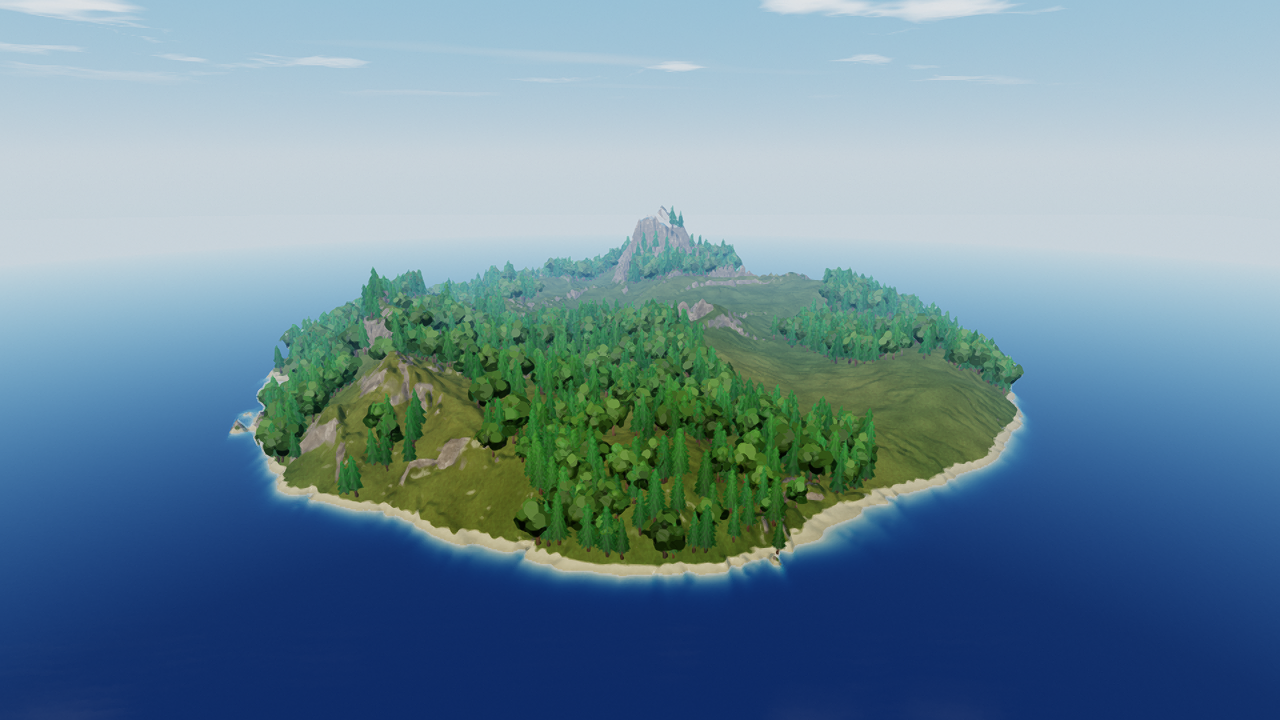
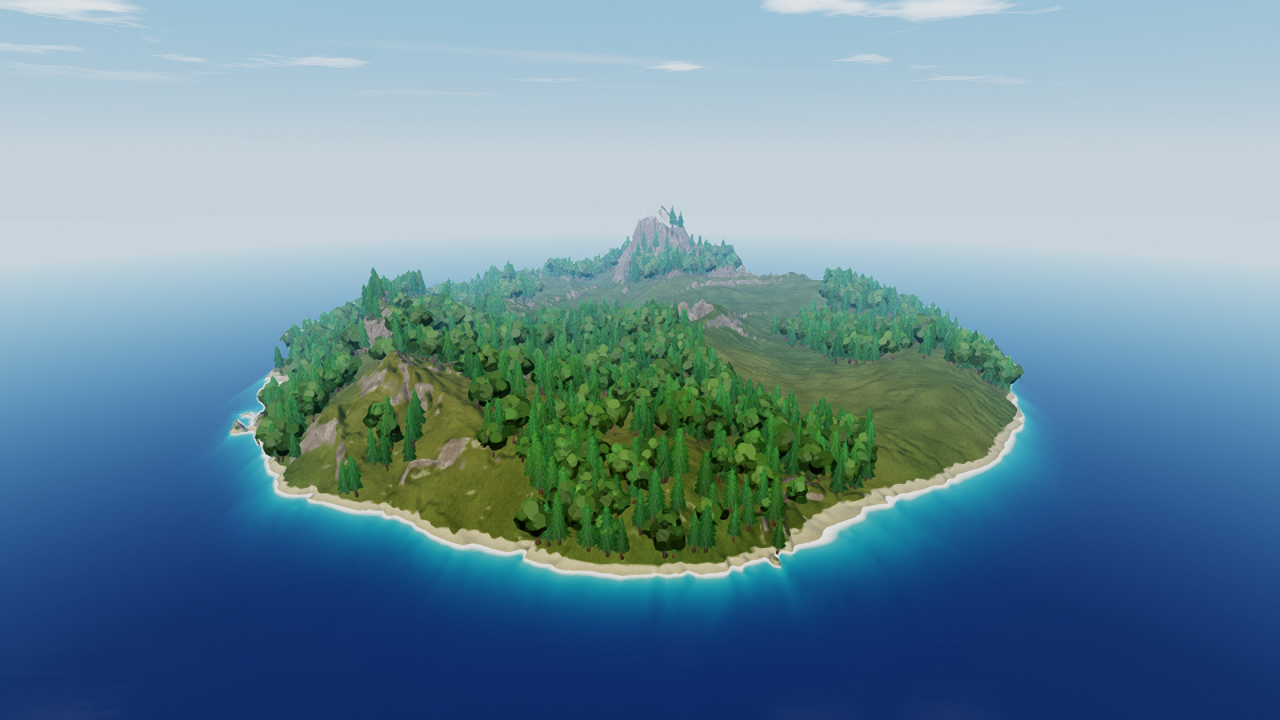
Shore foam, turquoise shallows, visible underwater, and dirt paths.
Water:
- A broken white foam line along the coast, with waves rolling in behind it up
  close. Depth is now measured straight down: along the view ray, a low camera saw
  the line vanish. Modern look only, and low tier has none, since it needs the
  refraction depth
- Underwater was black. The default fog color now follows the shallows, or else the
  water color, and is much thinner (density 0.022). SetUnderwaterFog still overrides
- The island's shallows are wider and brighter

Terrain:
- PaintTerrainPath(t, x0, z0, x1, z1, width [, layer]) paints a track, dirt by default
- PaintTerrain has a dirt layer, 4. It is stored as sand and rock equally, since the
  blend map's channels and the terrain's texture units are full
- Grass and trees stay off painted dirt, sand, and rock, for anything planted after
  the paint

Fixes:
- Paint strokes wrote into the bake map when a terrain had both, leaving dark squares
  far from the brush: the upload ran after the bake was bound
- Any paint made the whole terrain read every material, about 1.6 ms for one short
  path. It now does that only where paint is

The sun disc was checked and is there, as a soft glow. Island frame time is unchanged
at about 9.3 / 7 / 4.4 ms on high / medium / low, on one GPU only.

Only the island reference changed. Tests pass, references are stable over repeat
runs, and all 118 examples run with no crash or GL error. No example uses
PaintTerrainPath yet.

Changed region(s): [[0.1562, 0.5194, 0.8125, 0.8861]]

diff --git a/internal/runtime/terrain_sculpt.go b/internal/runtime/terrain_sculpt.go
@@ -793,16 +793,54 @@ func (w *World) seedPaint(p *terrainPaint, texID int) {
 	}
 }
 
+// paintDirt is the dirt layer. The blend map has four channels and four materials
+// already, and the terrain's texture units are full, so dirt is stored as sand and
+// rock equally: the shader takes what they share as dirt.
+const paintDirt = 4
+
 // paintChannel maps PaintTerrain layers (SetTerrainSplat order) to blend map
-// channels: 0 sand R, 1 grass G, 2 rock B, 3 snow A. -1 erases.
+// channels: 0 sand R, 1 grass G, 2 rock B, 3 snow A. -1 erases, 4 is dirt.
 func paintChannel(layer int) int {
 	if layer < 0 {
 		return -1
 	}
-	if layer > 3 {
-		return 3
+	if layer >= paintDirt {
+		return -1 // written as sand and rock, below
 	}
 	return layer
+}
+
+// paintPath dabs along a line, closely enough that it reads as one stroke.
+func paintPath(p *terrainPaint, x0, z0, x1, z1, width float32, layer int) {
+	b := p.img.Bounds()
+	sx := float32(b.Dx()) / max32(p.w, 0.001)
+	sz := float32(b.Dy()) / max32(p.d, 0.001)
+	r := width * 0.5 * (sx + sz) * 0.5
+	dx, dz := (x1-x0)*sx, (z1-z0)*sz
+	n := int(math.Sqrt(float64(dx*dx+dz*dz))/float64(max32(r*0.4, 0.5))) + 1
+	for i := 0; i <= n; i++ {
+		f := float32(i) / float32(n)
+		u := (x0 + (x1-x0)*f - p.x0) * sx
+		v := (z0 + (z1-z0)*f - p.z0) * sz
+		p.dirty = p.dirty.Union(paintImage(p.img, u, v, r, layer, 0.8, 0.5))
+	}
+}
+
+// paintBareAt says whether paint has cleared this spot of plants: dirt, sand, or rock
+// where nothing was asked to grow.
+func (t *terrain) paintBareAt(x, z float32) bool {
+	p := t.sculpt.paint
+	if p == nil || t.blendTex != p.tex {
+		return false
+	}
+	b := p.img.Bounds()
+	u := int((x - p.x0) / max32(p.w, 0.001) * float32(b.Dx()))
+	v := int((z - p.z0) / max32(p.d, 0.001) * float32(b.Dy()))
+	if u < b.Min.X || v < b.Min.Y || u >= b.Max.X || v >= b.Max.Y {
+		return false
+	}
+	o := p.img.PixOffset(u, v)
+	return p.img.Pix[o] > 96 || p.img.Pix[o+2] > 96
 }
 
 // paintImage dabs one brush on img. (u, v) and r are in texels. The outer
@@ -843,7 +881,7 @@ func paintImage(img *image.RGBA, u, v, r float32, layer int, strength, falloff f
 			changed := false
 			for c := 0; c < 4; c++ {
 				target := float32(0)
-				if c == ch {
+				if c == ch || (layer == paintDirt && (c == 0 || c == 2)) {
 					target = 255
 				}
 				cur := float32(img.Pix[o+c])
@@ -1055,8 +1093,8 @@ func (w *World) terrainSculptCommands(n func(func([]value.Value) (value.Value, e
 				return value.Value{}, fmt.Errorf("PaintTerrain: radius must be > 0")
 			}
 			layer := argI(a, 4, 1)
-			if layer < -1 || layer > 3 {
-				return value.Value{}, fmt.Errorf("PaintTerrain: layer %d (0 sand, 1 grass, 2 rock, 3 snow, -1 erase)", layer)
+			if layer < -1 || layer > paintDirt {
+				return value.Value{}, fmt.Errorf("PaintTerrain: layer %d (0 sand, 1 grass, 2 rock, 3 snow, 4 dirt, -1 erase)", layer)
 			}
 			p := w.ensurePaint(t)
 			b := p.img.Bounds()
@@ -1067,6 +1105,26 @@ func (w *World) terrainSculptCommands(n func(func([]value.Value) (value.Value, e
 			touched := paintImage(p.img, u, v, r*(sx+sz)*0.5, layer, float32(argN(a, 5, 0.35)), float32(argN(a, 6, 0.5)))
 			p.dirty = p.dirty.Union(touched)
 			return value.Num(float64(touched.Dx() * touched.Dy())), nil
+		}),
+		// PaintTerrainPath(t, x0, z0, x1, z1, width [, layer]): paint a track between two
+		// points, dirt by default. Grass and trees stay off it, if they are planted after.
+		"paintterrainpath": n(func(a []value.Value) (value.Value, error) {
+			t, err := w.sculptTerrainArg("PaintTerrainPath", a, 6, "(terrain, x0, z0, x1, z1, width [, layer])")
+			if err != nil {
+				return value.Value{}, err
+			}
+			width := float32(argN(a, 5, 3))
+			if width <= 0 {
+				return value.Value{}, fmt.Errorf("PaintTerrainPath: width must be > 0")
+			}
+			layer := argI(a, 6, paintDirt)
+			if layer < -1 || layer > paintDirt {
+				return value.Value{}, fmt.Errorf("PaintTerrainPath: layer %d (0 sand, 1 grass, 2 rock, 3 snow, 4 dirt, -1 erase)", layer)
+			}
+			p := w.ensurePaint(t)
+			paintPath(p, float32(argN(a, 1, 0)), float32(argN(a, 2, 0)), float32(argN(a, 3, 0)), float32(argN(a, 4, 0)), width, layer)
+			w.resetGrass(t)
+			return z()
 		}),
 		"setterrainpaintarea": n(func(a []value.Value) (value.Value, error) {
 			t, err := w.sculptTerrainArg("SetTerrainPaintArea", a, 5, "(terrain, x0, z0, width, depth [, resolution])")

diff --git a/internal/runtime/terrain_shaders.go b/internal/runtime/terrain_shaders.go
@@ -230,6 +230,7 @@ float rockShown = 0.0;
 
 vec4 terrainSplat(inout vec3 n) {
     float h = WorldPos.y;
+    float paintedDirt = 0.0;
     vec3 tp = retroTexPos();
     // Rendering smaller picks blurrier mips, then FSR upscales the blur. Scaling the
     // gradients is the same as Godot's log2(scale) mip bias.
@@ -282,7 +283,14 @@ vec4 terrainSplat(inout vec3 n) {
     // Only what shows here is sampled: this was about 30 texture reads a pixel,
     // on the ground that covers most of the screen. A blend map can bring any
     // material back, so with one everything stays.
-    bool painted = TerrainHasBlend != 0;
+    // Paint can ask for any material, so where there is paint all of them are read.
+    // Only there: a short path should not cost the whole island three more textures.
+    vec4 bw = vec4(0.0);
+    if (TerrainHasBlend != 0) {
+        vec2 buv = vec2((WorldPos.x - TerrainOriginX) / max(TerrainWorldW, 1.0), (-WorldPos.z - TerrainOriginZ) / max(TerrainWorldD, 1.0));
+        bw = texture(TerrainBlendMap, clamp(buv, 0.0, 1.0));
+    }
+    bool painted = bw.r + bw.g + bw.b + bw.a > 0.004;
     bool wantRock = painted || (rockMask < 0.998 && sandMask < 0.998 && snowMask < 0.998);
     bool wantGrass = painted || (rockMask > 0.002 && sandMask < 0.998 && snowMask < 0.998);
     if (wantGrass) {
@@ -341,12 +349,11 @@ vec4 terrainSplat(inout vec3 n) {
         // Decoding deepens color, so this keeps the green a natural meadow.
         grass = mix(vec3(terrainLuma(grass)), grass, 0.7) * vec3(1.12, 1.0, 1.04);
     }
-    if (TerrainHasBlend != 0) {
-        float sx = WorldPos.x;
-        float sz = -WorldPos.z;
-        vec2 buv = vec2((sx - TerrainOriginX) / max(TerrainWorldW, 1.0), (sz - TerrainOriginZ) / max(TerrainWorldD, 1.0));
-        buv = clamp(buv, 0.0, 1.0);
-        vec4 bw = texture(TerrainBlendMap, buv);
+    if (painted) {
+        // Dirt is stored as sand and rock equally. What they share is dirt.
+        paintedDirt = min(bw.r, bw.b);
+        bw.r -= paintedDirt;
+        bw.b -= paintedDirt;
         float sum = bw.r + bw.g + bw.b + bw.a;
         if (sum > 0.04) {
             float k = clamp(sum, 0.0, 1.0);
@@ -364,6 +371,12 @@ vec4 terrainSplat(inout vec3 n) {
         dirtW,
         sandMask,
         snowMask);
+    if (paintedDirt > 0.002) {
+        // Worn earth with stones in it, and an edge that frays into what is around it.
+        vec3 earth = mix(vec3(0.66, 0.54, 0.4), vec3(0.5, 0.39, 0.28), terrainNoise(WorldPos.xz * 0.7));
+        earth = mix(earth, rock, smoothstep(0.62, 0.8, terrainNoise(WorldPos.xz * 2.3)) * 0.5);
+        albedo = mix(albedo, earth, smoothstep(0.3, 0.62, paintedDirt + (terrainNoise(WorldPos.xz * 0.9) - 0.5) * 0.35));
+    }
     float b0 = terrainNoise(WorldPos.xz * 1.6);
     float bx = terrainNoise((WorldPos.xz + vec2(0.15, 0.0)) * 1.6);
     float bz = terrainNoise((WorldPos.xz + vec2(0.0, 0.15)) * 1.6);

diff --git a/internal/runtime/terrain_sculpt_test.go b/internal/runtime/terrain_sculpt_test.go
@@ -3,6 +3,8 @@ package runtime
 import (
 	"image"
 	"math"
+	"os"
+	"strings"
 	"testing"
 
 	"github.com/g3n/engine/gls"
@@ -368,5 +370,68 @@ func TestSculptCompactHeightmap(t *testing.T) {
 	}
 	if y := w.terrainHeight(2, 2); !nearEps(y, before, 1e-4) {
 		t.Fatalf("reset %v want %v", y, before)
+	}
+}
+
+func TestPaintDirtIsSandAndRockTogether(t *testing.T) {
+	img := image.NewRGBA(image.Rect(0, 0, 16, 16))
+	paintImage(img, 8, 8, 3, paintDirt, 1, 0)
+	o := img.PixOffset(8, 8)
+	if img.Pix[o] != 255 || img.Pix[o+1] != 0 || img.Pix[o+2] != 255 || img.Pix[o+3] != 0 {
+		t.Fatalf("dirt wrote %v, want sand and rock full and nothing else", img.Pix[o:o+4])
+	}
+}
+
+func TestPaintPathKeepsPlantsOff(t *testing.T) {
+	img := image.NewRGBA(image.Rect(0, 0, 128, 128))
+	p := &terrainPaint{img: img, tex: 7, x0: -64, z0: -64, w: 128, d: 128}
+	paintPath(p, -40, 0, 40, 0, 6, paintDirt)
+	if p.dirty.Empty() {
+		t.Fatal("a path should mark texels for upload")
+	}
+	tr := &terrain{blendTex: 7}
+	tr.sculpt.paint = p
+	for _, x := range []float32{-40, -13, 0, 21, 40} {
+		if !tr.paintBareAt(x, 0) {
+			t.Fatalf("nothing should grow on the path at x=%v", x)
+		}
+	}
+	if tr.paintBareAt(0, 20) || tr.paintBareAt(500, 0) {
+		t.Fatal("off the path, and off the map, plants grow as usual")
+	}
+	tr.blendTex = 8 // another blend map bound: this canvas no longer counts
+	if tr.paintBareAt(0, 0) {
+		t.Fatal("a canvas that is not bound should not clear anything")
+	}
+}
+
+// uploadTerrainPaint writes to whatever texture is bound. With the bake bound after
+// the blend map, paint strokes came out as dark squares in the bake.
+func TestPaintUploadsWhileBlendMapIsBound(t *testing.T) {
+	src, err := os.ReadFile("terrain.go")
+	if err != nil {
+		t.Fatal(err)
+	}
+	s := string(src)
+	blend := strings.Index(s, `bind(t.blendTex, unitTerrainBlend`)
+	up := strings.Index(s, `m.w.uploadTerrainPaint(t)`)
+	bake := strings.Index(s, `bind(t.bakeTex, unitTerrainBake`)
+	if blend < 0 || up < blend || bake < up {
+		t.Fatalf("binds out of order: blend %d, upload %d, bake %d", blend, up, bake)
+	}
+}
+
+func TestUnderwaterIsNotBlack(t *testing.T) {
+	wb := &waterBody{color: math32.Color{R: 0.12, G: 0.21, B: 0.38}}
+	if c := wb.underwaterColor(); c.G < 0.2 || c.B < 0.3 {
+		t.Fatalf("default underwater color %v is too dark to see in", c)
+	}
+	wb.shallow, wb.shallowTo = math32.Color{R: 0.1, G: 0.7, B: 0.7}, 12
+	if c := wb.underwaterColor(); c.G <= c.R || c.B <= c.R {
+		t.Fatalf("underwater color %v should come from the shallows", c)
+	}
+	wb.underFog = math32.Color{R: 0.5}
+	if c := wb.underwaterColor(); c != wb.underFog {
+		t.Fatalf("a script's color should win, got %v", c)
 	}
 }

diff --git a/internal/runtime/water_shaders.go b/internal/runtime/water_shaders.go
@@ -456,8 +456,28 @@ void main() {
         surf = (1.0 - smoothstep(0.03, 0.9 + camDist * (LinearLight != 0 ? 0.001 : 0.004), meters)) * mix(0.3, 1.0, lap);
         surf *= smoothstep(0.2, 0.55, foamNoise + 0.2);
         surf *= exp(-camDist * (LinearLight != 0 ? 0.003 : 0.0012));
+        if (LinearLight != 0) {
+            // A white line along the shore, the thing that says "coast" from afar. Depth
+            // here is straight down: along the view ray, as meters is, a low camera
+            // sees depth grow so fast that the line vanishes. Two scales of noise drift
+            // through it, so it is broken and alive and not a painted stripe.
+            float down = meters * max(viewDir.y, 0.04);
+            float pulse = 0.5 + 0.5 * sin(WaveTime * 0.7 + foamNoise * 5.0 + tex.x * 3.0);
+            float reach = 0.45 + 0.3 * pulse + camDist * 0.0022;
+            float patchy = texture(WaterNormal, tex * 0.9 + vec2(WaterMove * 0.05, -WaterMove * 0.03)).r;
+            float line = 1.0 - smoothstep(0.01, reach, down);
+            surf = line * smoothstep(0.42, 0.6, foamNoise * 0.55 + patchy * 0.55 + line * 0.35);
+            // And a wave rolling in further out, up close, where it can be resolved.
+            float roll = sin(down * 9.0 - WaveTime * 0.9 + patchy * 7.0);
+            float rolling = smoothstep(0.8, 0.97, roll) * (1.0 - smoothstep(0.5, 1.5, fwidth(down) * 9.0));
+            rolling *= smoothstep(reach, reach * 1.4, down) * (1.0 - smoothstep(0.7, 1.3, down));
+            surf = max(surf, rolling * smoothstep(0.4, 0.62, patchy) * 0.75);
+        }
     }
     vec3 waterWithFoam = mix(base, foamColor, clamp(foamMask * foamNoise + surf * 0.7, 0.0, 0.7));
+    if (LinearLight != 0) {
+        waterWithFoam = mix(base, toLin(vec3(0.97, 0.98, 0.97)), clamp(foamMask * foamNoise + surf * 0.95, 0.0, 0.95));
+    }
 
     float sh = waterShadow(WorldPos, waveNormal, L);
     vec3 lit = waterWithFoam;

diff --git a/internal/runtime/water.go b/internal/runtime/water.go
@@ -762,17 +762,26 @@ func (w *World) tickUnderwater(wb *waterBody) {
 		if wb.underDen > 0 {
 			w.fogDensity = wb.underDen
 		} else {
-			w.fogDensity = 0.08
+			w.fogDensity = 0.022
 		}
-		if wb.underFog.R+wb.underFog.G+wb.underFog.B > 0 {
-			w.fogRGB = wb.underFog
-		} else {
-			w.fogRGB = math32.Color{wb.color.R * 0.25, wb.color.G * 0.45, wb.color.B * 0.55}
-		}
+		w.fogRGB = wb.underwaterColor()
 	} else if wb.savedFog {
 		w.fogMode, w.fogRGB, w.fogDensity = wb.fogMode, wb.fogRGB, wb.fogDen
 		wb.savedFog = false
 	}
+}
+
+// underwaterColor is what water looks like from inside it, unless a script chose.
+// It comes from the shallow color, which is the water's own: a quarter of the surface
+// color, as this was, turned the whole view black.
+func (wb *waterBody) underwaterColor() math32.Color {
+	if wb.underFog.R+wb.underFog.G+wb.underFog.B > 0 {
+		return wb.underFog
+	}
+	if wb.shallowTo > 0 {
+		return math32.Color{R: wb.shallow.R * 0.55, G: wb.shallow.G * 0.72, B: wb.shallow.B * 0.8}
+	}
+	return math32.Color{R: wb.color.R*0.7 + 0.02, G: wb.color.G*0.95 + 0.08, B: wb.color.B*1.05 + 0.1}
 }
 
 func disposeWaterFBO(t *waterFBO) {

diff --git a/internal/runtime/terrain.go b/internal/runtime/terrain.go
@@ -1829,8 +1829,8 @@ func (m *terrainMat) RenderSetup(gs *gls.GLS) {
 	bind(t.snowTex, unitTerrainSnow, "TerrainSnow", "TerrainHasSnow")
 	bind(t.rockNrm, unitTerrainRockN, "TerrainRockN", "TerrainHasRockN")
 	bind(t.blendTex, unitTerrainBlend, "TerrainBlendMap", "TerrainHasBlend")
+	m.w.uploadTerrainPaint(t) // before any other bind: it writes to whatever is bound
 	bind(t.bakeTex, unitTerrainBake, "TerrainBake", "TerrainHasBake")
-	m.w.uploadTerrainPaint(t) // PaintTerrain texels; the blend map is still bound
 }
 
 // bindPlainUniforms sends what stays the same for one terrain through a pass.

diff --git a/internal/runtime/terrain_scatter.go b/internal/runtime/terrain_scatter.go
@@ -471,6 +471,9 @@ func (w *World) scatterPoints(t *terrain, layer scatterLayer, key chunkKey, salt
 		if !scatterAccept(layer.kind, flat, h, t.waterY, snowLineAt(t, x, z, flat), t.snowOn) {
 			continue
 		}
+		if (layer.kind == "tree" || layer.kind == "grass") && t.paintBareAt(x, z) {
+			continue
+		}
 		if forest != nil {
 			if t.clearing > 0 && h < t.waterY+math32.Max(t.blend, 1.2)*2 {
 				continue // the beach stays open

diff --git a/internal/runtime/terrain_grass.go b/internal/runtime/terrain_grass.go
@@ -110,7 +110,7 @@ func (w *World) grassPoints(t *terrain, g *grassField, k chunkKey, near bool) []
 			continue
 		}
 		h := w.sampleHeight(&t.hf, x, z)
-		if h < shore {
+		if h < shore || t.paintBareAt(x, z) {
 			continue
 		}
 		flat := scatterFlat(t, x, z)

diff --git a/docs/COMMANDS.md b/docs/COMMANDS.md
@@ -1276,7 +1276,8 @@ See `docs/TERRAIN.md`. OpenGL **3.3** grids: central-difference normals, far chu
 | `SetTerrainHeight(t, gridX, gridZ, height)` | One lattice node (heightmap pixel, or `TerrainCellSize` node on proc terrain) | `SetTerrainHeight(t, 10, 12, 3.5)` |
 | `TerrainGridHeight(t, gridX, gridZ)` | Read one lattice node | `h# = TerrainGridHeight(t, 10, 12)` |
 | `TerrainCellSize(t)` | Lattice spacing in world units | `c# = TerrainCellSize(t)` |
-| `PaintTerrain(t, x, z, radius, layer [, strength, falloff])` | Paint the blend map: `0` sand `1` grass `2` rock `3` snow `-1` erase. Uploads only touched texels | `PaintTerrain(t, x, z, 4, 2, 0.3)` |
+| `PaintTerrainPath(t, x0, z0, x1, z1, width [, layer])` | Paint a track between two points, dirt unless a layer is given. Worn earth with a frayed edge. Grass and trees stay off painted dirt, sand, and rock, for anything planted after the paint | `PaintTerrainPath(ground, 0, 0, 40, 25, 5)` |
+| `PaintTerrain(t, x, z, radius, layer [, strength, falloff])` | Paint the blend map: `0` sand `1` grass `2` rock `3` snow `4` dirt `-1` erase. Uploads only touched texels | `PaintTerrain(t, x, z, 4, 2, 0.3)` |
 | `SetTerrainPaintArea(t, x0, z0, width, depth [, res])` | Rectangle and resolution of the paint map (clears it) | `SetTerrainPaintArea(t, -200, -200, 400, 400, 1024)` |
 | `ResetTerrainEdits(t)` | Undo all sculpting and painting | `ResetTerrainEdits(t)` |
 | `PickTerrain(t [, sx, sy])` | Mouse (or pixel) ray onto the heightfield; `1` on hit, point in `PickedX/Y/Z` | `If PickTerrain(t) Then x# = PickedX()` |
@@ -1391,7 +1392,7 @@ See `docs/WATER.md`. Two techniques, one shader: **Gerstner** vertex ocean + **s
 | `CreateBuoy(ent)` | Jolt lift + splash + wake impulse | `CreateBuoy(boat)` |
 | `SetWaterFollow(on)` | Recenter LOD grid on camera XZ | `SetWaterFollow(True)` |
 | `SetWaterLevel(y)` / `GetWaterLevel()` | Still-water plane | `SetWaterLevel(0)` |
-| `SetUnderwaterFog(r, g, b [, density])` | When camera is under | `SetUnderwaterFog(8, 35, 50, 0.09)` |
+| `SetUnderwaterFog(r, g, b [, density])` | When camera is under. By default the color comes from `SetWaterShallow`, or else the water color, with density 0.022 | `SetUnderwaterFog(8, 35, 50, 0.09)` |
 | `SetWaterStreamRadius(n)` | Large ocean: follow + far radius | `SetWaterStreamRadius(2)` |
 | `SetWaterCaustics([id,] on)` / `GetWaterCaustics` / `EnableWaterCaustics` | Animated caustics on terrain / underwater | `SetWaterCaustics(water, True)` |
 | `SetWaterSSR([id,] on)` / `GetWaterSSR` / `EnableWaterSSR` | Lite planar-FBO screen march (**Partial**) | `SetWaterSSR(water, True)` |

diff --git a/docs/TERRAIN.md b/docs/TERRAIN.md
@@ -216,7 +216,8 @@ Scripts can reshape and paint the ground while the game runs: a level editor, cr
 | `FlattenTerrain(t, x, z, radius, height [, strength, falloff])` | Pull toward `height`. `strength` 1 sets it outright |
 | `SmoothTerrain(t, x, z, radius [, strength, falloff])` | Pull toward the 3×3 average |
 | `SetTerrainHeight(t, gridX, gridZ, height)` / `TerrainGridHeight(t, gridX, gridZ)` | One lattice node |
-| `PaintTerrain(t, x, z, radius, layer [, strength, falloff])` | `layer` 0 sand, 1 grass, 2 rock, 3 snow, `-1` erases back to the slope/height splat |
+| `PaintTerrainPath(t, x0, z0, x1, z1, width [, layer])` | Paint a track between two points, dirt unless a layer is given. Worn earth with a frayed edge. Grass and trees stay off painted dirt, sand, and rock, for anything planted after the paint | `PaintTerrainPath(ground, 0, 0, 40, 25, 5)` |
+| `PaintTerrain(t, x, z, radius, layer [, strength, falloff])` | `layer` 0 sand, 1 grass, 2 rock, 3 snow, 4 dirt, `-1` erases back to the slope/height splat |
 | `SetTerrainPaintArea(t, x0, z0, width, depth [, res])` | World rectangle and texel size of the paint map (default: the heightmap rectangle, or the streamed window around the origin for procedural terrains; 512²) |
 | `ResetTerrainEdits(t)` | Back to the loaded heights and an empty paint map |
 | `PickTerrain(t [, screenX, screenY])` | Ray from the mouse (or a pixel) to the ground. `1` on a hit, point in `PickedX/Y/Z` |

diff --git a/docs/WATER.md b/docs/WATER.md
@@ -108,7 +108,8 @@ Aliases: `GetWaterHeight`, `SetWaterReflection`, `SetWaterRefraction`, `SetWater
 | --- | --- |
 | Foam on Gerstner peaks | Cheap height foam in the fragment shader |
 | Dual scrolling normal maps | `WaterNormal` sampled twice and mixed with Gerstner / dFdx normals |
-| Underwater fog | `SetUnderwaterFog` when the camera is below `WaterHeight` |
+| Shore foam | A broken white line where the water is shallow, measured straight down, so a low camera keeps it. Waves roll in behind it up close. Needs the refraction depth, so low tier has none. Linear path only |
+| Underwater fog | `SetUnderwaterFog` when the camera is below `WaterHeight`. Default color follows the shallows |
 | Buoyancy / splash / wakes | `CreateBuoy` + CPU impulse buffer (`WaterWake`). Auto `ApplyBuoyancyImpulse` for submerged dynamics (`SetBuoyancyFactor`, `SetWaterFlow`). Flag demo: `examples/cloth.mb` |
 | Caustics | Animated projected pattern on `mbterrain` / underwater meshes (`SetWaterCaustics`) |
 | Shoreline wetness | Terrain darken + spec near `WaterLevel` using the `Wetness` term |

diff --git a/reports/Engine rendering techniques for moonBASIC.md b/reports/Engine rendering techniques for moonBASIC.md
@@ -96,7 +96,7 @@ Added after the report, as the list is built. Timings are the Radeon 780M at 128
 | 18 | Mostly | `BakeTerrain`: normals with rock detail, horizon occlusion, D8 flow, in one RGBA8 map. Macro color is not done |
 | 19 | Mostly | Decorrelated projections, a second large scale, warped strata, rock normals along the face. Per-projection normal frames are not done |
 | 25 | Partly | Cloud banks from a weather map, billowed edges, a thin high layer. Cloud shadows on terrain are not done |
-| 26 | Partly | Ripple texture mips, `SetWaterRoughness`, wake edge and ripple coordinate fixes. FFT cascades and foam memory are not done |
+| 26 | Partly | Ripple texture mips, `SetWaterRoughness`, wake edge and ripple coordinate fixes, shore foam by vertical depth with rolling waves. FFT cascades and foam memory are not done |
 | 16, 17, 21, 24, 27-29, 31-34 | Not started | Next by rank: 16 render queues, 17 sky, 21 render targets |
 
 ## What not to build
